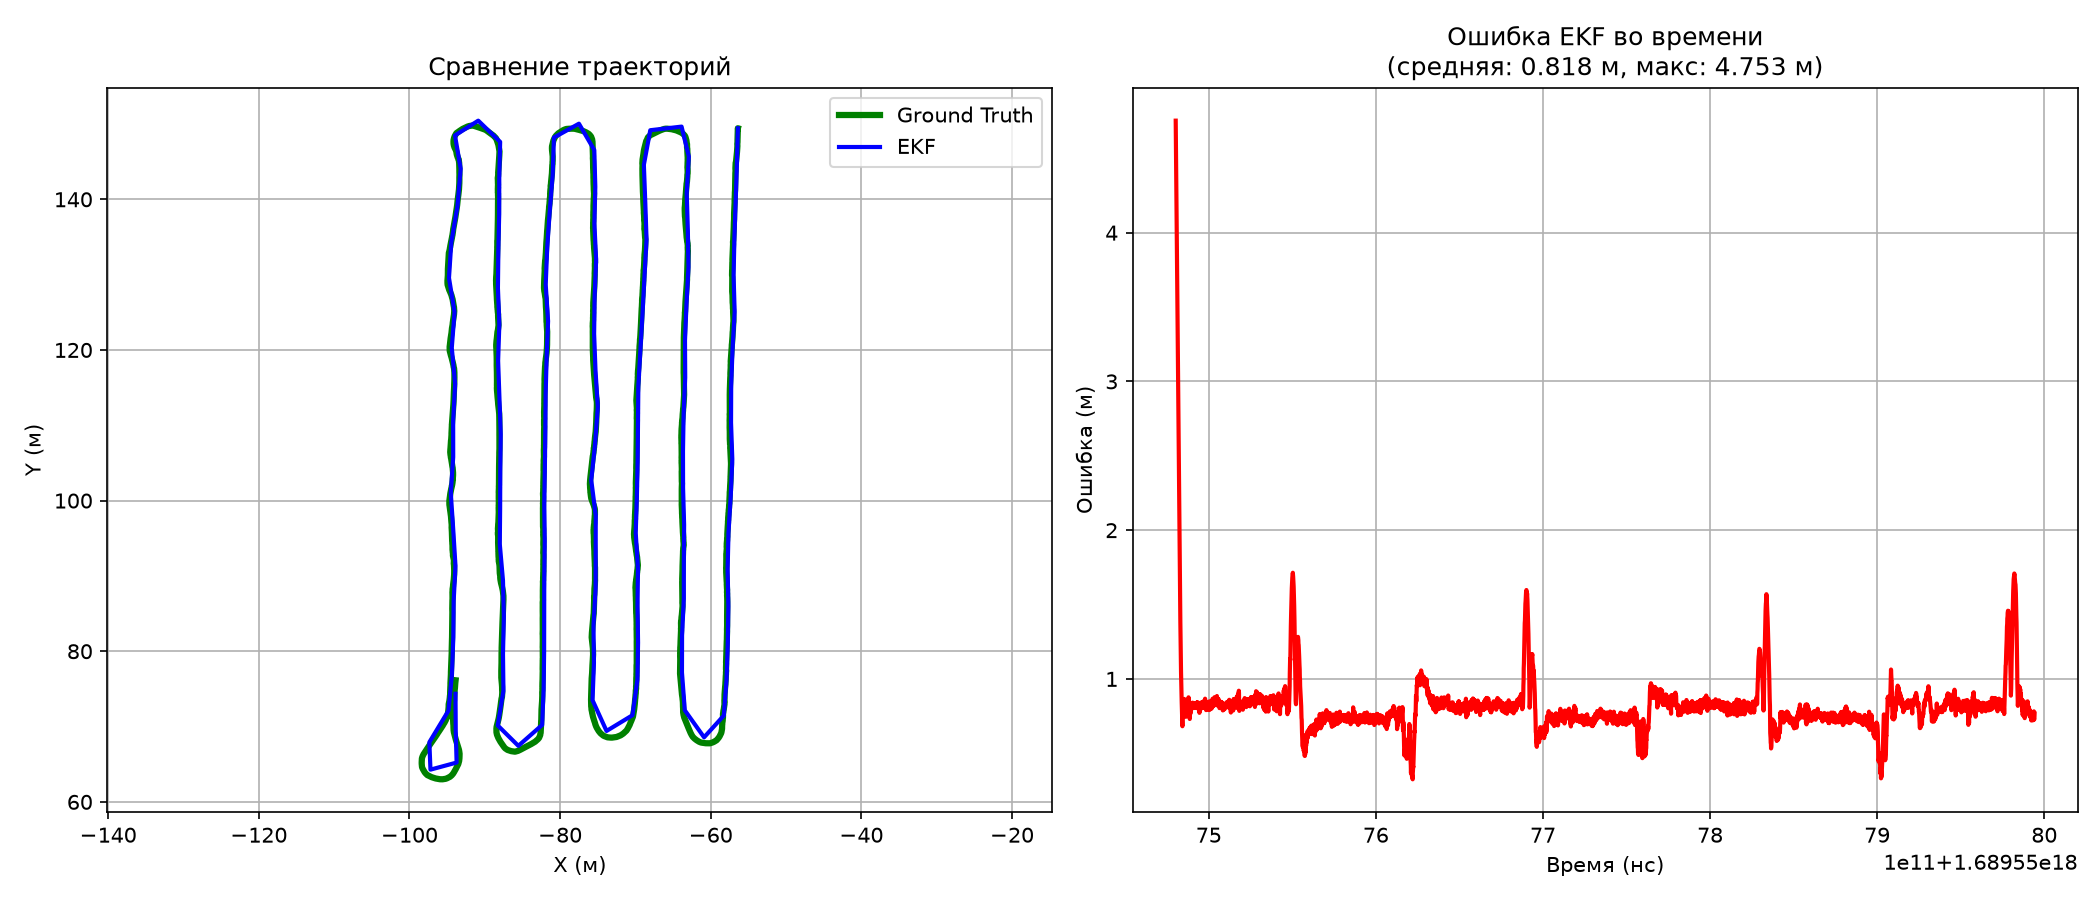
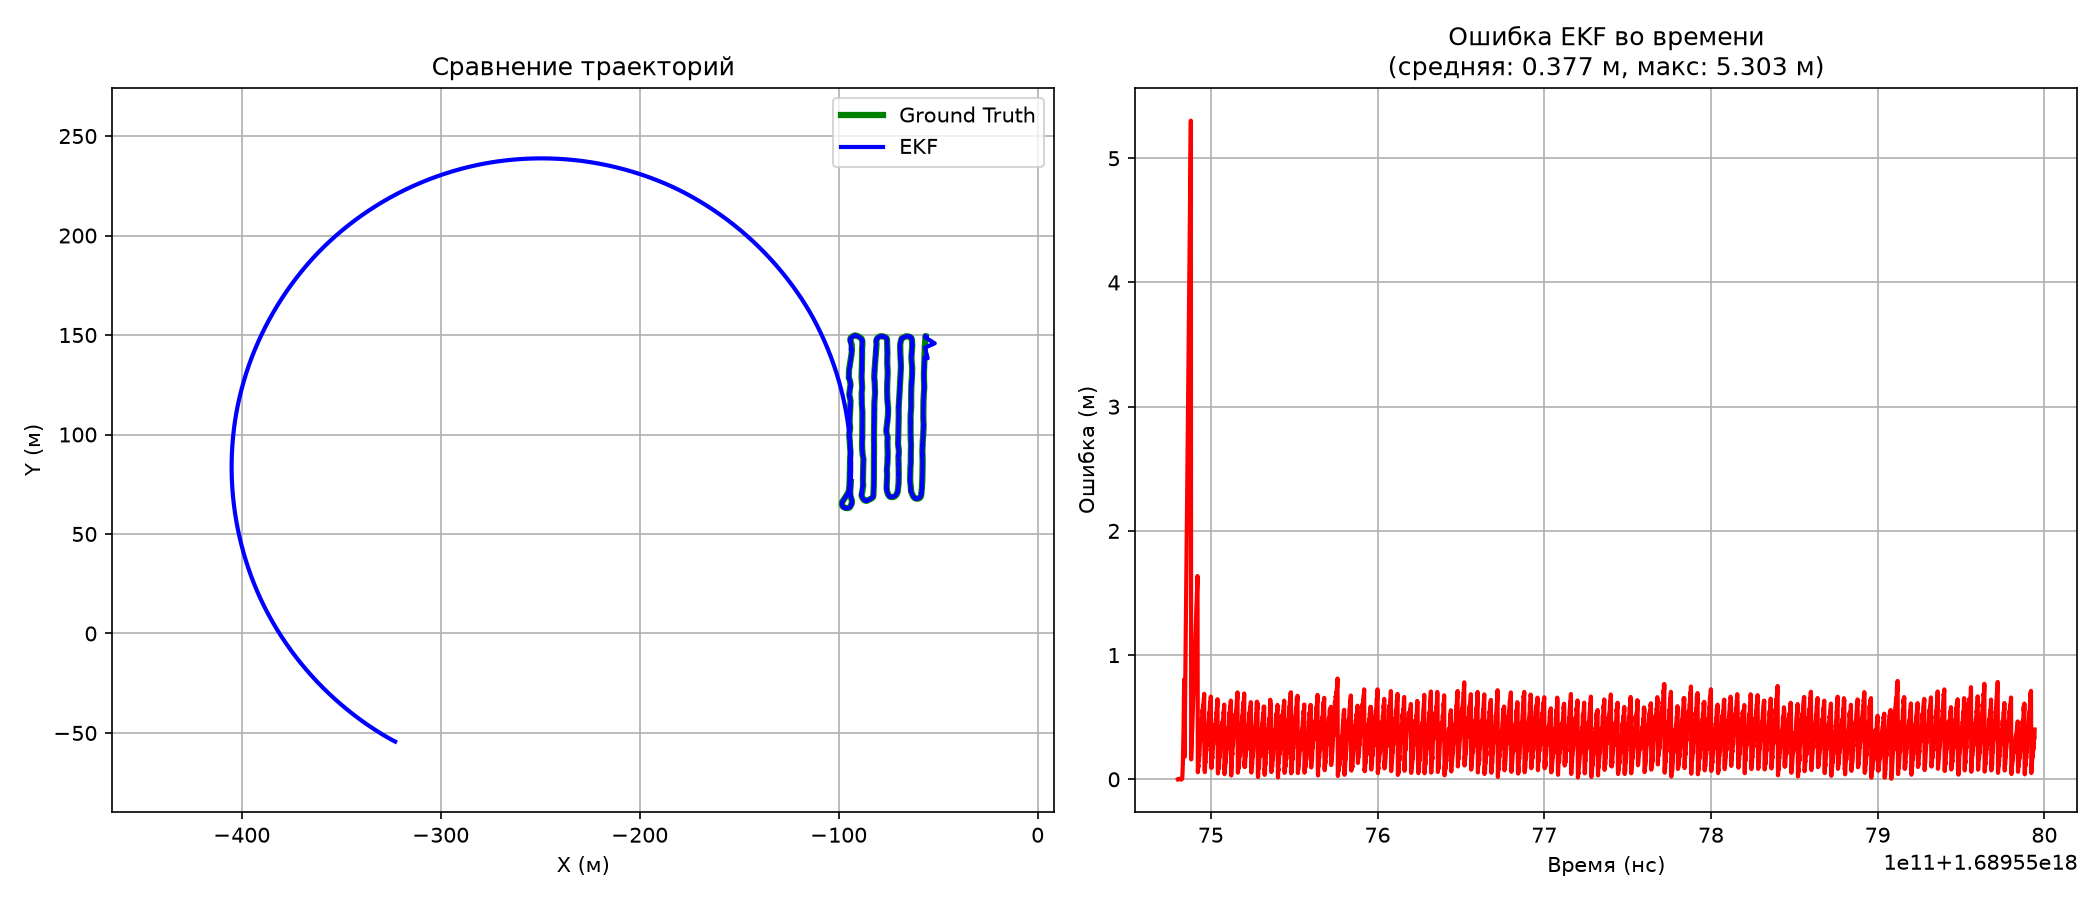
citrus farm test upd

diff --git a/tests/EKF_citrus_farm_test.py b/tests/EKF_citrus_farm_test.py
@@ -34,28 +34,54 @@ gt_y = []
 
 counts = {'predict': 0, 'update': 0, 'ground_truth': 0}
 
+# for action, value, timestamp in adapter:
+#     counts[action] = counts.get(action, 0) + 1
+    
+#     # if action == 'predict':
+#     #     if initial_pose_set:
+#     #         ekf.predict(value)
+#     if action == 'predict':
+#         if initial_pose_set:
+#             ekf.predict(value)
+#             est_times.append(timestamp)
+#             est_x.append(ekf.x[0]); est_y.append(ekf.x[1])
+
+#     elif action == 'update':
+#         if not initial_pose_set:
+#             ekf.set_pose(value)
+#             initial_pose_set = True
+#         else:
+#             ekf.update(value)
+
+#         est_times.append(timestamp)
+#         est_x.append(ekf.x[0])
+#         est_y.append(ekf.x[1])
+
+#     elif action == 'ground_truth':
+#         gt_times.append(timestamp)
+#         gt_x.append(value[0])
+#         gt_y.append(value[1])
+
 for action, value, timestamp in adapter:
     counts[action] = counts.get(action, 0) + 1
-    
-    if action == 'predict':
+
+    if action == 'init':
+        ekf.set_pose(value)
+        initial_pose_set = True
+        est_times.append(timestamp); est_x.append(ekf.x[0]); est_y.append(ekf.x[1])
+
+    elif action == 'predict':
         if initial_pose_set:
             ekf.predict(value)
+            est_times.append(timestamp); est_x.append(ekf.x[0]); est_y.append(ekf.x[1])
 
     elif action == 'update':
-        if not initial_pose_set:
-            ekf.set_pose(value)
-            initial_pose_set = True
-        else:
-            ekf.update(value)
-
-        est_times.append(timestamp)
-        est_x.append(ekf.x[0])
-        est_y.append(ekf.x[1])
+        if initial_pose_set:
+            ekf.update_pos(value[:2])
+            est_times.append(timestamp); est_x.append(ekf.x[0]); est_y.append(ekf.x[1])
 
     elif action == 'ground_truth':
-        gt_times.append(timestamp)
-        gt_x.append(value[0])
-        gt_y.append(value[1])
+        gt_times.append(timestamp); gt_x.append(value[0]); gt_y.append(value[1])
 
 print(f"Обработано: Predict={counts['predict']}, Update={counts['update']}, GT={counts['ground_truth']}")
 print(f"RTK использовано для update: {counts['update']} раз")
@@ -69,14 +95,14 @@ gt_times = np.array(gt_times)
 gt_x = np.array(gt_x)
 gt_y = np.array(gt_y)
 
-offset_x = gt_x[0] - est_x[0]
-offset_y = gt_y[0] - est_y[0]
+# offset_x = gt_x[0] - est_x[0]
+# offset_y = gt_y[0] - est_y[0]
 
-est_x_aligned = est_x + offset_x
-est_y_aligned = est_y + offset_y
+# est_x_aligned = est_x + offset_x
+# est_y_aligned = est_y + offset_y
 
-interp_x = interp1d(est_times, est_x_aligned, kind='linear', fill_value="extrapolate")
-interp_y = interp1d(est_times, est_y_aligned, kind='linear', fill_value="extrapolate")
+interp_x = interp1d(est_times, est_x, kind='linear', fill_value="extrapolate")
+interp_y = interp1d(est_times, est_y, kind='linear', fill_value="extrapolate")
 
 ekf_at_gt_x = interp_x(gt_times)
 ekf_at_gt_y = interp_y(gt_times)
@@ -95,7 +121,7 @@ plt.figure(figsize=(14, 6))
 
 plt.subplot(1, 2, 1)
 plt.plot(gt_x, gt_y, 'g-', linewidth=3, label='Ground Truth')
-plt.plot(est_x_aligned, est_y_aligned, 'b-', linewidth=2, label='EKF')
+plt.plot(est_x, est_y, 'b-', linewidth=2, label='EKF')
 
 plt.xlabel('X (м)')
 plt.ylabel('Y (м)')
@@ -108,6 +134,7 @@ plt.subplot(1, 2, 2)
 plt.plot(gt_times, error, 'r-', linewidth=2)
 plt.xlabel('Время (нс)')
 plt.ylabel('Ошибка (м)')
+
 plt.title(f'Ошибка EKF во времени\n(средняя: {np.mean(error):.3f} м, макс: {np.max(error):.3f} м)')
 plt.grid(True)
 

diff --git a/data/citrus_farm_data_adapter.py b/data/citrus_farm_data_adapter.py
@@ -46,6 +46,13 @@ class CitrusFarmDataAdapter:
                     continue
 
                 if connection.topic == odom_topic:
+                    if self.first_odom is None:
+                        x = msg.pose.pose.position.x
+                        y = msg.pose.pose.position.y
+                        q = msg.pose.pose.orientation
+                        yaw = quaternion_to_yaw(q.x, q.y, q.z, q.w)
+                        self.first_odom = np.array([x, y])
+                        yield 'init', np.array([x, y, yaw]), timestamp
                     try:
                         vx = msg.twist.twist.linear.x
                         vy = msg.twist.twist.linear.y
@@ -86,6 +93,9 @@ class CitrusFarmDataAdapter:
 
                         if self.first_gt is None:
                             self.first_gt = np.array([x, y])
+
+                        if self.first_odom is None:
+                            continue 
                         
                         if self.first_odom is not None and self.first_gt is not None:
                             offset_x = self.first_odom[0] - self.first_gt[0]
